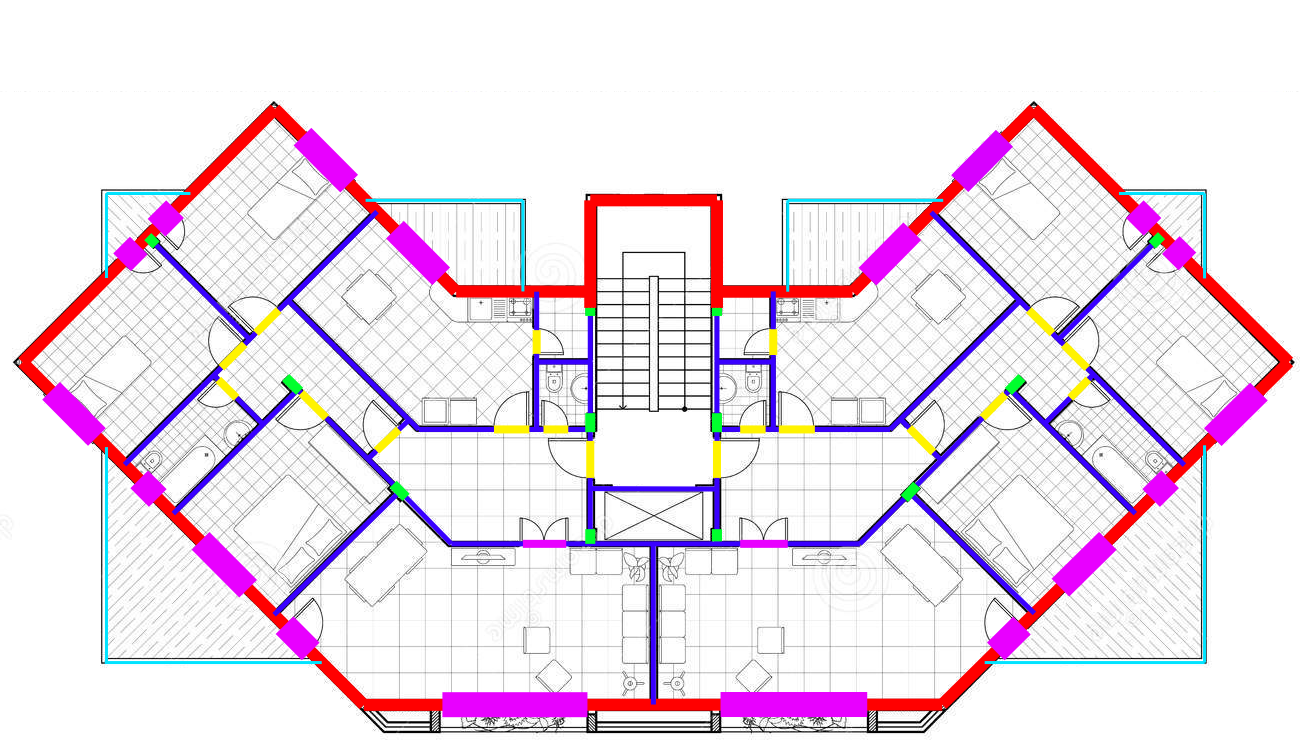
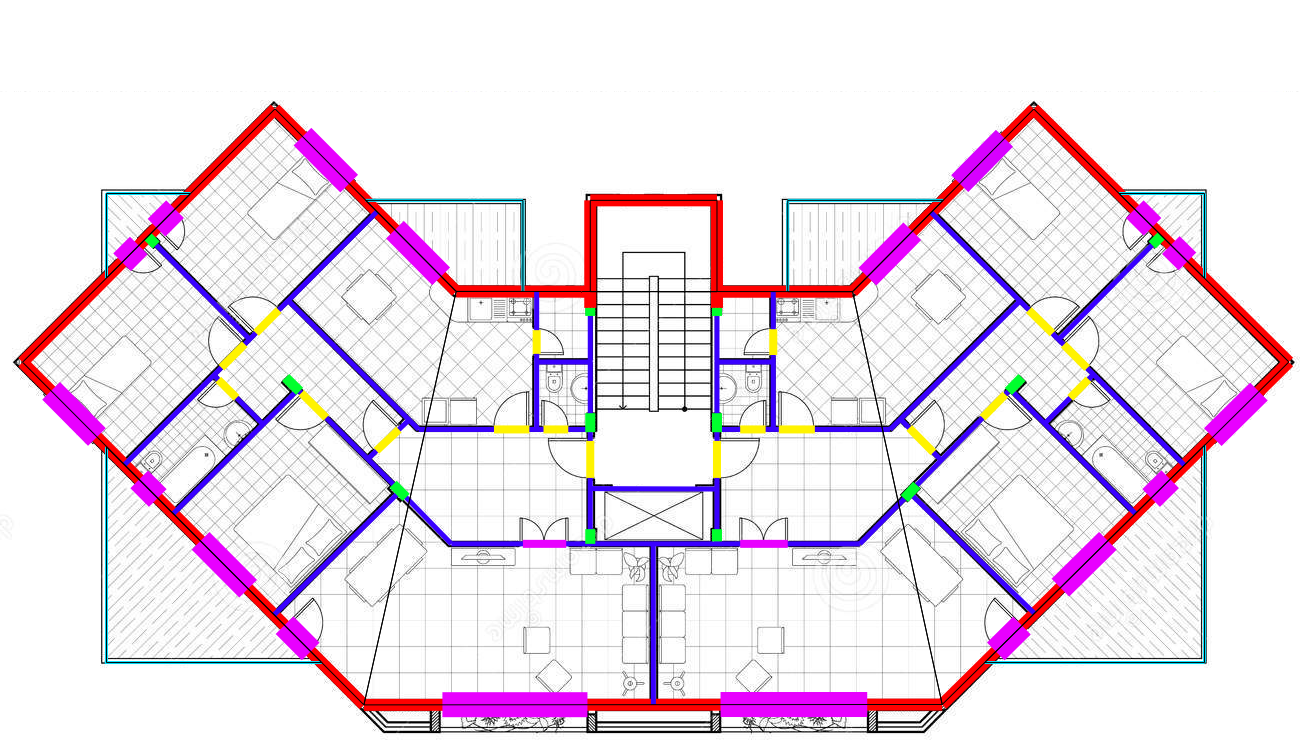
Aggiunte immagini del primo esempio

diff --git a/2016-12-02/workshop_8.py b/2016-12-02/workshop_8.py
@@ -157,7 +157,10 @@ if __name__ == "__main__":
             pillars,
             QUOTE([100])
         ])),
-        balconies,
+        COLOR(CYAN)(PROD([
+            balconies,
+            QUOTE([50])
+        ])),
         floor_internal,
         floor_balcony
     ]))
